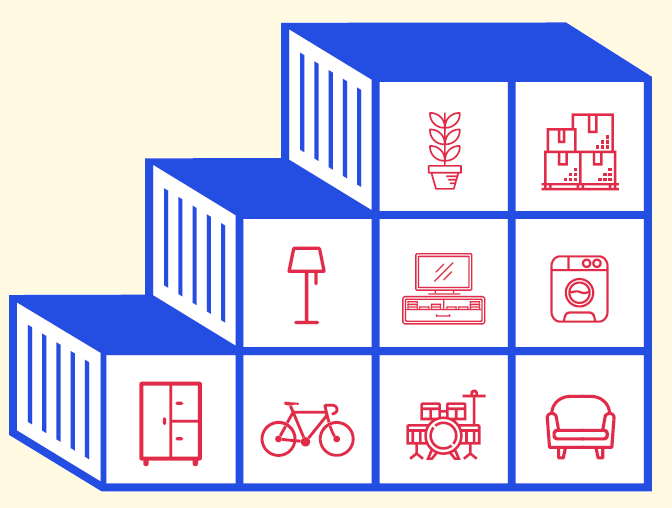
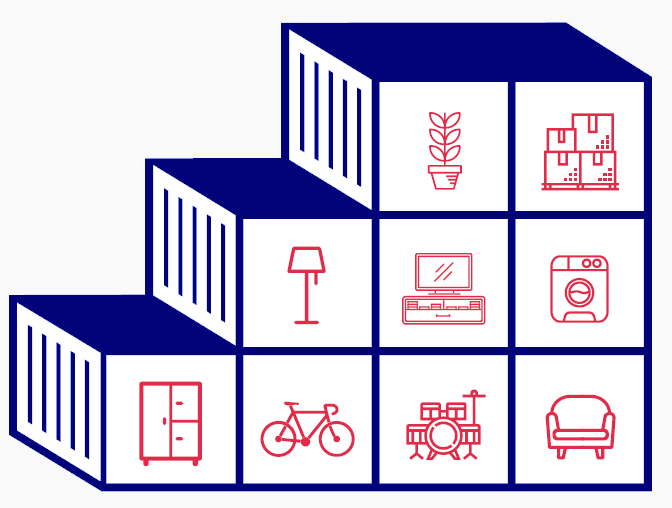
cambio estilos

Changed region(s): [[0.0, 0.0295, 0.9688, 0.9744], [0.0625, 0.8858, 0.0938, 0.9154]]

diff --git a/css/style.css b/css/style.css
@@ -5,7 +5,7 @@
 }
 
 footer {
-  background-color: #004aad;
+  background-color: #020279;
   width: 100%;
   margin-top: auto;
   height: auto;
@@ -39,14 +39,14 @@ footer {
 }
 
 .navbar {
-  background-color: #004aad;
+  background-color: #020279;
   width: 100%;
-  box-shadow: 0 0 6px #BB2D2D;
+  box-shadow: 0 0 6px #020279;
 }
 
 .titles {
   font-family: "Work Sans", sans-serif;
-  color: #F9F4DC;
+  color: #f9f9f9;
 }
 
 .titles:hover {
@@ -72,7 +72,7 @@ footer {
 }
 
 main {
-  background-color: #FFFAE1;
+  background-color: #f9f9f9;
   background-position: center;
   background-size: contain;
   width: 100%;
@@ -95,12 +95,12 @@ h1 {
 
 h2 {
   font-family: "Bebas Neue", sans-serif;
-  color: #004aad;
+  color: #020279;
   font-size: 18px;
 }
 
 h5 {
-  color: #004aad;
+  color: #020279;
 }
 
 .storage {
@@ -168,11 +168,11 @@ h5 {
 }
 
 .card-title {
-  color: #004aad;
+  color: #020279;
 }
 
 .card-text {
-  color: #004aad;
+  color: #020279;
 }
 
 @media (min-width: 1024px) {

diff --git a/scss/layout/_main-index.scss b/scss/layout/_main-index.scss
@@ -3,7 +3,7 @@
 }
 
 main {
-    background-color: #FFFAE1;
+    background-color: #f9f9f9;
     background-position: center;
     background-size: contain;
     width: 100%;
@@ -19,7 +19,7 @@ body {
 h1 {
     font-family: 'Bebas Neue', sans-serif;
     color: #BB2D2D;
-    font-size: 60px;
+    font-size: 60px; 
     margin-bottom: 0px;
     margin-top: 10px;
 
@@ -27,13 +27,13 @@ h1 {
 
 h2 {
     font-family: 'Bebas Neue', sans-serif;
-    color: #004aad;
+    color: #020279;
     font-size: 18px;
 
 }
 
 h5{
-    color: #004aad;
+    color: #020279;
 }
 
 .storage {
@@ -105,9 +105,9 @@ h5{
 }
 
 .card-title{
-    color: #004aad;
+    color: #020279;
 }
 
 .card-text{
-    color: #004aad;
+    color: #020279;
 }

diff --git a/scss/layout/_header.scss b/scss/layout/_header.scss
@@ -1,12 +1,12 @@
 .navbar{
-    background-color: #004aad;
+    background-color: #020279;
     width: 100%;
-    box-shadow: 0 0 6px #BB2D2D;
+    box-shadow: 0 0 6px #020279;
 }
 
 .titles{
     font-family: 'Work Sans', sans-serif;
-    color: #F9F4DC;
+    color: #f9f9f9;
 }
 
 .titles:hover {

diff --git a/scss/layout/_footer.scss b/scss/layout/_footer.scss
@@ -1,5 +1,5 @@
 footer{
-    background-color: #004aad;
+    background-color: #020279;
     width: 100%;
     margin-top: auto;
     height: auto;
